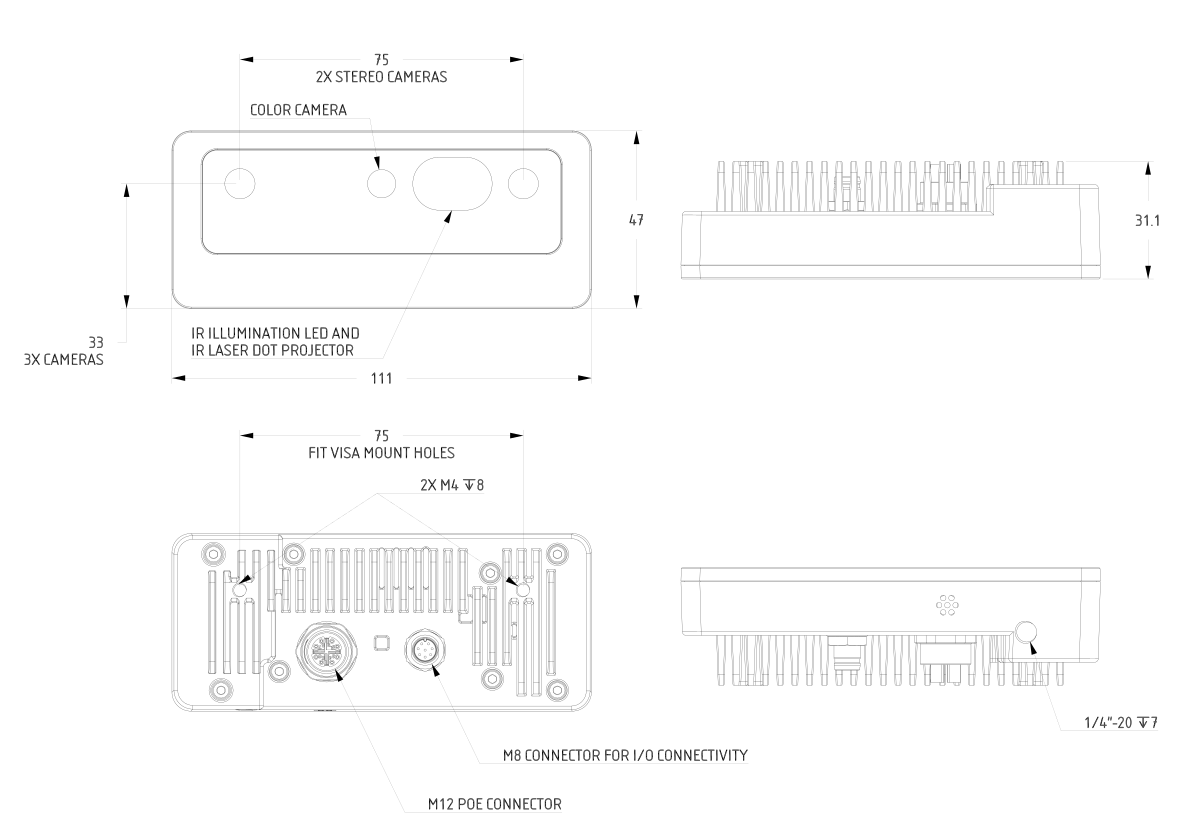
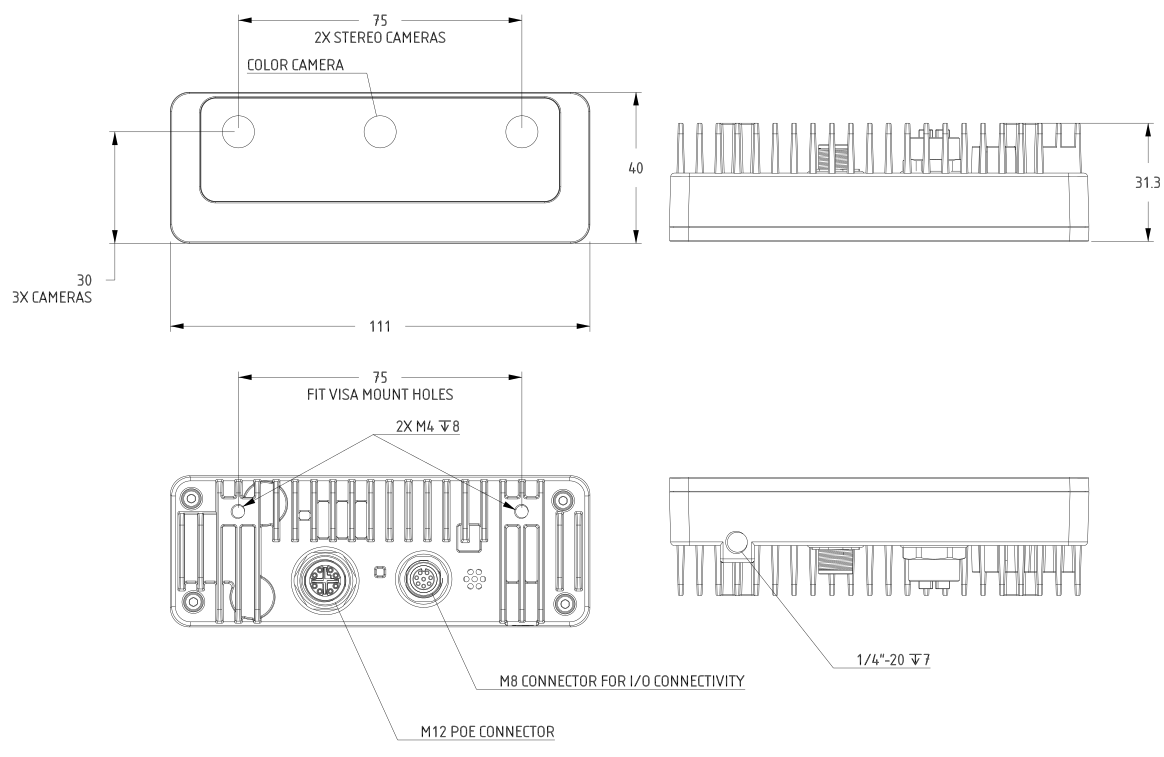
Updated enclosure dimensions of OAK-D S2/W/Pro, OAK-D S2/W/Pro PoE

diff --git a/docs/source/pages/DM9098pro.rst b/docs/source/pages/DM9098pro.rst
@@ -34,7 +34,7 @@ Dimensions and Weight
 
 **Weight:** 91g
 
-.. image:: /_static/images/DM9098/oak-d-pro-dimensions.png
+.. image:: /_static/images/DM9098/dimensions-pro.png
 
 .. include:: /pages/includes/depth_75_800P.rst
 

diff --git a/docs/source/pages/DM9098s2.rst b/docs/source/pages/DM9098s2.rst
@@ -28,7 +28,7 @@ Dimensions and Weight
 
 **Weight:** 91g
 
-.. image:: /_static/images/DM9098/oak-d-s2_dimansions.png
+.. image:: /_static/images/DM9098/dimensions.png
 
 .. include:: /pages/includes/depth_75_800P.rst
 

diff --git a/docs/source/pages/NG9097pro.rst b/docs/source/pages/NG9097pro.rst
@@ -40,7 +40,7 @@ Dimensions and Weight
 
 **Weight:** 184g
 
-.. image:: /_static/images/NG9097/dimensions.png
+.. image:: /_static/images/NG9097/dimensions-pro.png
 
 .. image:: /_static/images/NG9097/pro-poe-back.png
 

diff --git a/docs/source/pages/NG9097s2.rst b/docs/source/pages/NG9097s2.rst
@@ -35,7 +35,7 @@ Dimensions and Weight
 
 **Weight:** 184g
 
-.. image:: /_static/images/NG9097/dimensions-s2-poe.png
+.. image:: /_static/images/NG9097/dimensions.png
 
 .. include:: /pages/includes/depth_75_800P.rst
 

diff --git a/docs/source/pages/DM9098w.rst b/docs/source/pages/DM9098w.rst
@@ -26,7 +26,7 @@ Dimensions and Weight
 
 **Weight:** 91g
 
-.. image:: /_static/images/DM9098/oak-d-s2_dimansions.png
+.. image:: /_static/images/DM9098/dimensions.png
 
 .. include:: /pages/includes/depth_75_W.rst
 

diff --git a/docs/source/pages/NG9097w.rst b/docs/source/pages/NG9097w.rst
@@ -34,7 +34,7 @@ Dimensions and Weight
 
 **Weight:** 184g
 
-.. image:: /_static/images/NG9097/dimensions-s2-poe.png
+.. image:: /_static/images/NG9097/dimensions.png
 
 .. include:: /pages/includes/depth_75_W.rst
 
